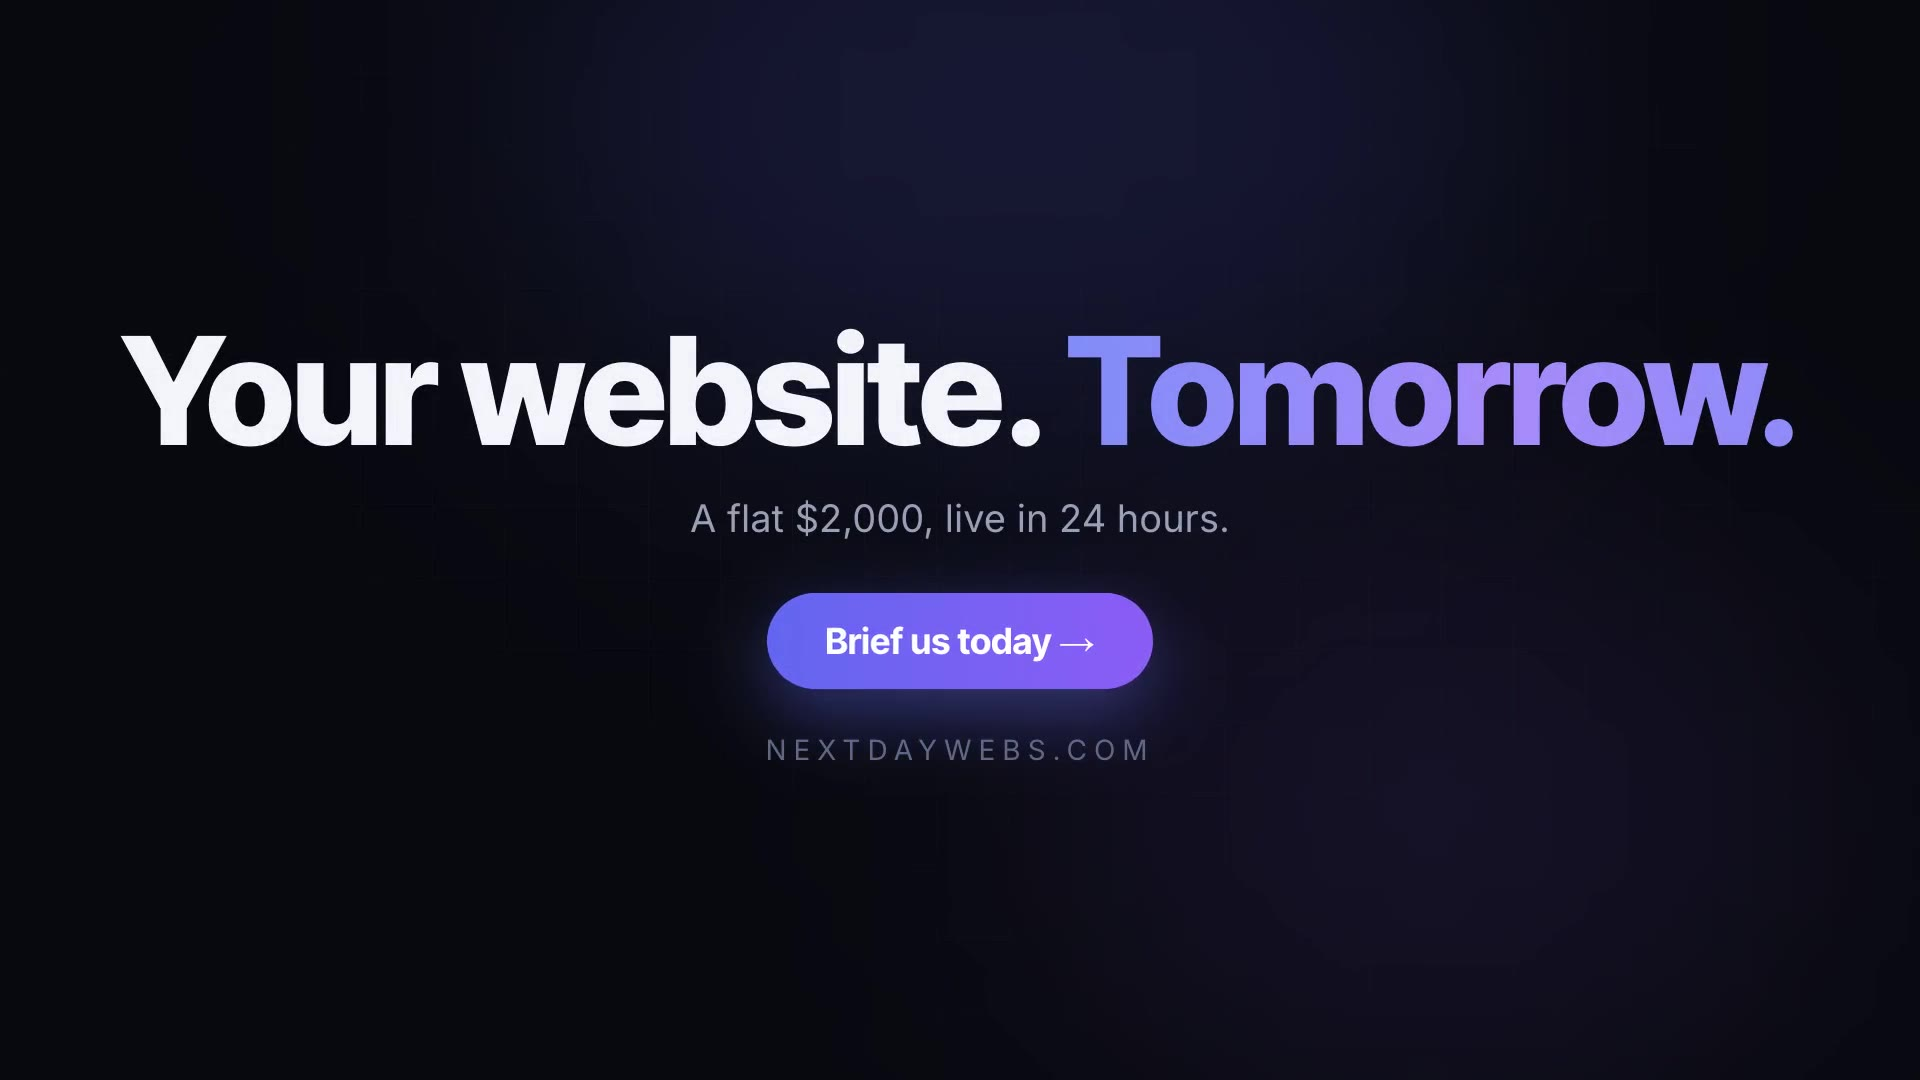
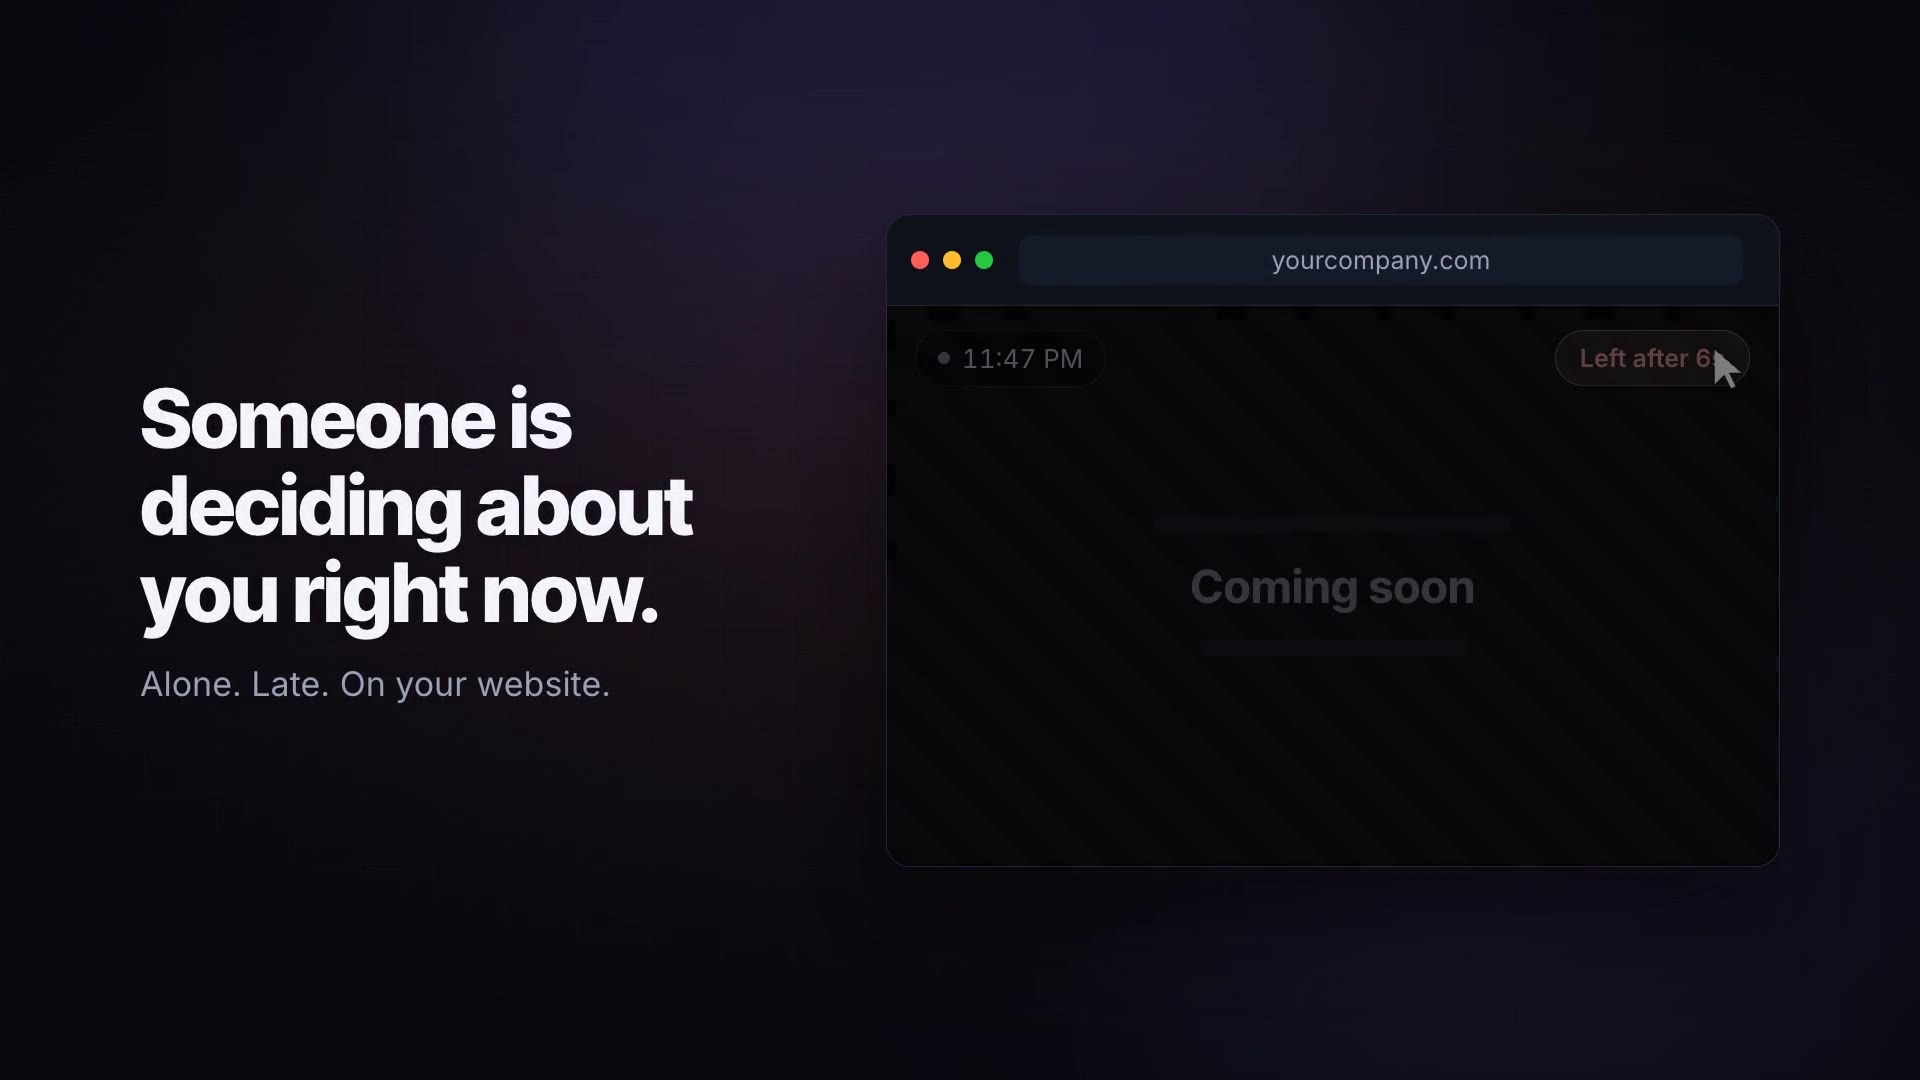
Deploy 2026-07-11T08:58Z

diff --git a/index.html b/index.html
@@ -23,7 +23,7 @@
         if (l) document.documentElement.lang = l
       } catch (e) {}
     </script>
-    <script type="module" crossorigin src="/assets/index-DWD2EibU.js"></script>
+    <script type="module" crossorigin src="/assets/index-8keM-pGa.js"></script>
     <link rel="stylesheet" crossorigin href="/assets/index-BhMNU9CJ.css">
   </head>
   <body>